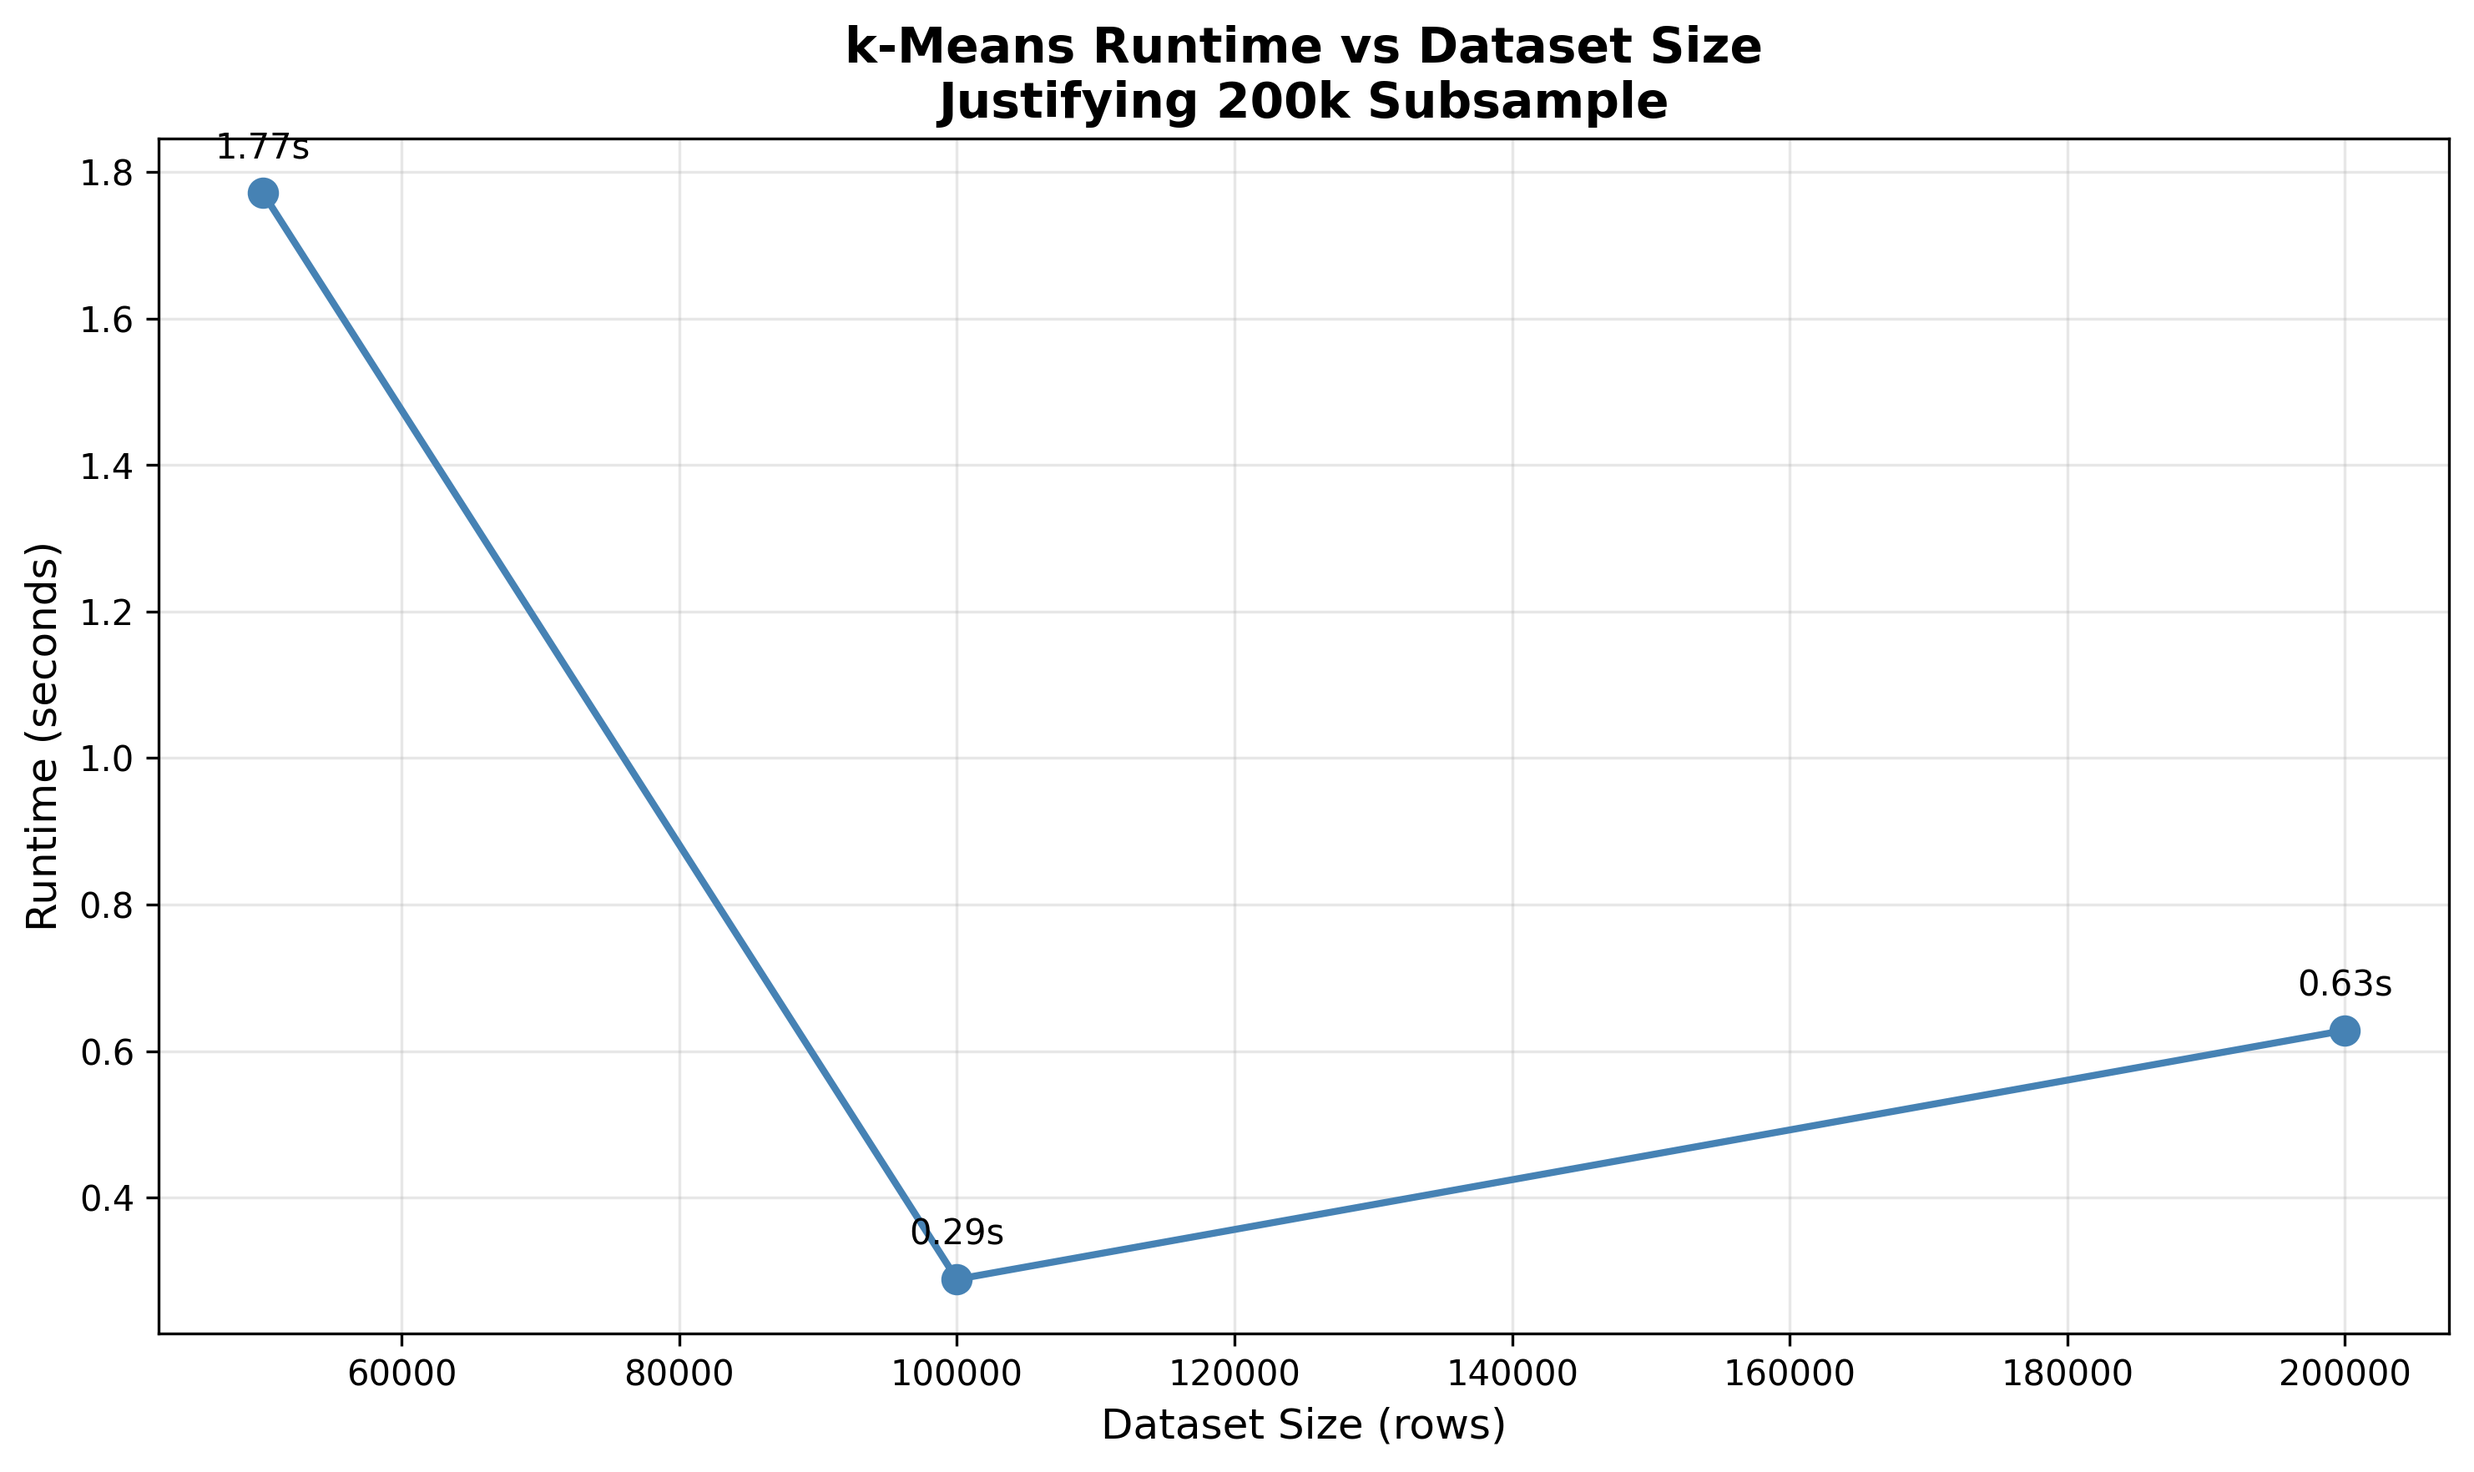
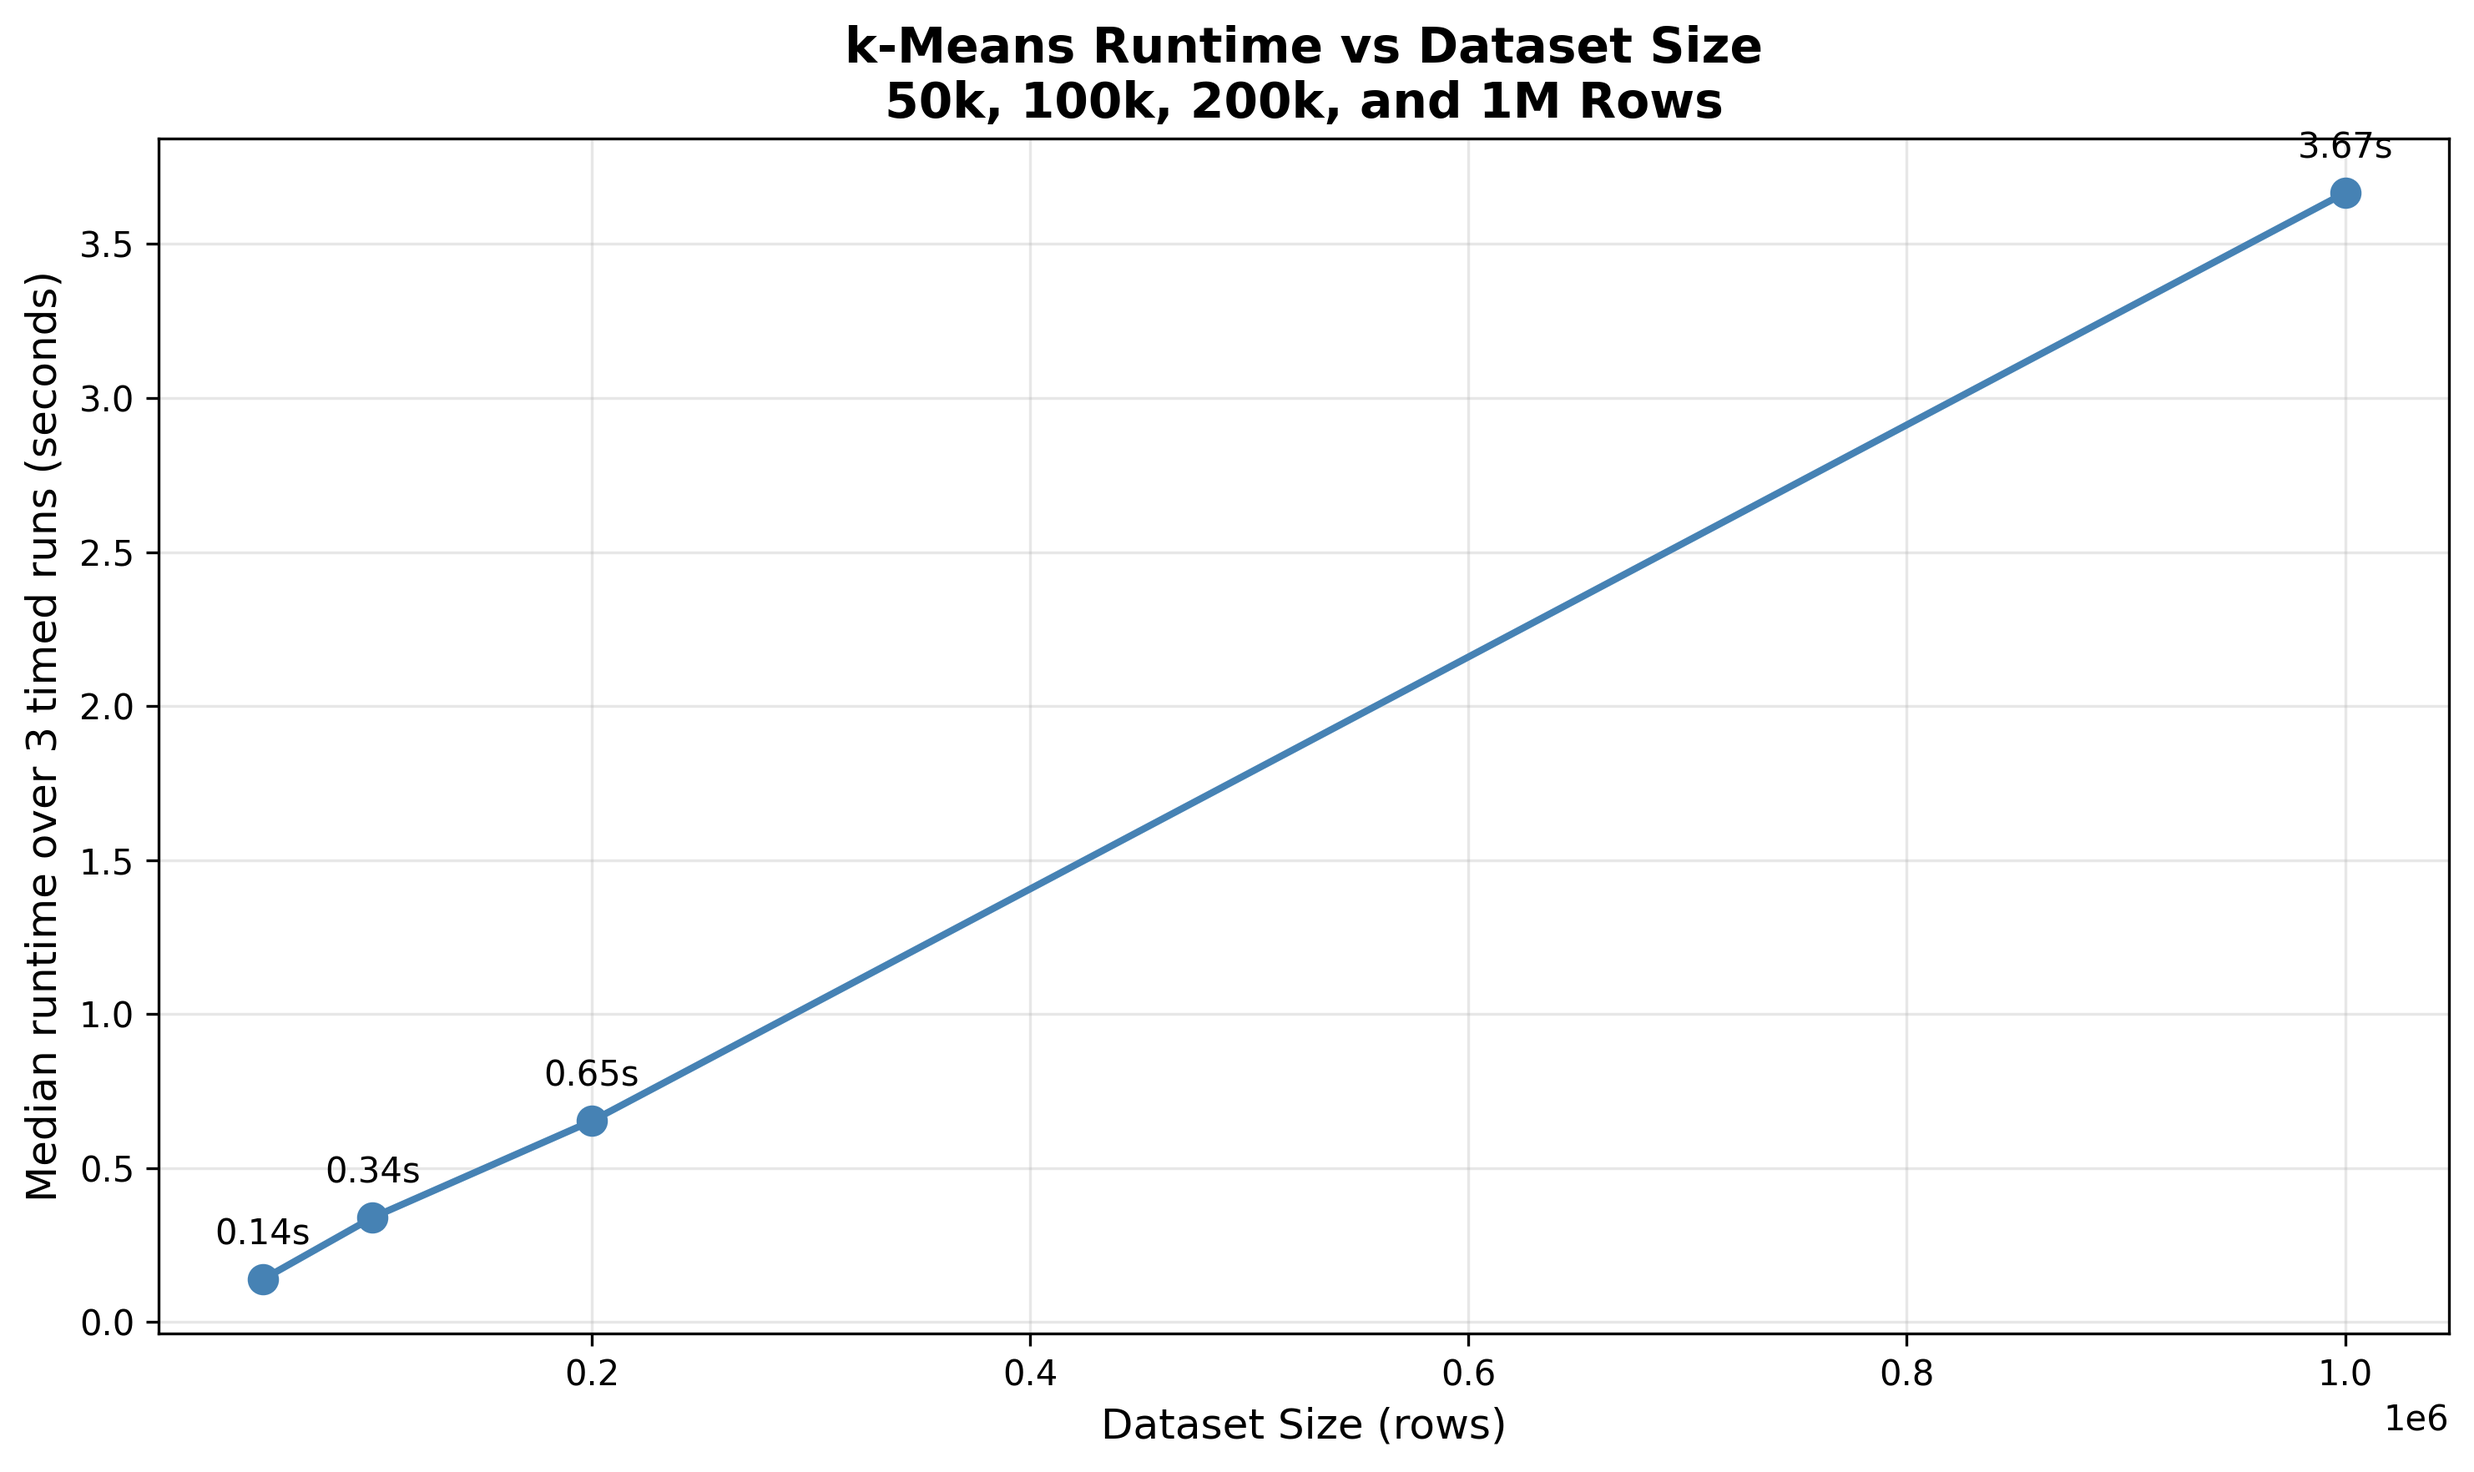
fixed the justification test, and updated the justification graph

diff --git a/src/k-means.py b/src/k-means.py
@@ -12,6 +12,7 @@ Usage examples:
 
 import argparse
 from pathlib import Path
+from statistics import median
 from time import perf_counter
 
 import matplotlib.pyplot as plt
@@ -159,6 +160,29 @@ def prepare_numeric_features(df: pd.DataFrame) -> tuple[pd.DataFrame, pd.DataFra
 	return df.loc[valid_mask].copy(), X.loc[valid_mask]
 
 
+def benchmark_kmeans_runtime(X_subset: pd.DataFrame, repeats: int = 3) -> tuple[float, list[float]]:
+	"""
+	Measure k-Means runtime on a fixed feature subset.
+
+	Runs one untimed warm-up pass to avoid counting one-time sklearn/BLAS startup
+	overhead, then reports the median across repeated timed runs.
+	"""
+	scaler = StandardScaler()
+	X_scaled = scaler.fit_transform(X_subset)
+	KMeans(n_clusters=2, n_init=10, random_state=42).fit(X_scaled)
+
+	runs = []
+	for _ in range(repeats):
+		start = perf_counter()
+		scaler = StandardScaler()
+		X_scaled = scaler.fit_transform(X_subset)
+		model = KMeans(n_clusters=2, n_init=10, random_state=42)
+		model.fit(X_scaled)
+		runs.append(perf_counter() - start)
+
+	return median(runs), runs
+
+
 def run_single_clustering(args: argparse.Namespace, df: pd.DataFrame) -> None:
 	df, X = prepare_numeric_features(df)
 
@@ -254,7 +278,7 @@ def justify_subsampling(
 	output_path: Path = Path("Analysis_and_Findings/subsample_justification.png"),
 ) -> None:
 	"""
-	Benchmark k-Means on 50k/100k/200k rows to justify use of subsampled dataset.
+	Benchmark k-Means on 50k/100k/200k/1M rows to justify use of subsampled dataset.
 	Plots runtime vs dataset size and saves to Analysis_and_Findings/subsample_justification.png
 	"""
 	input_path = Path(input_path)
@@ -263,7 +287,7 @@ def justify_subsampling(
 		raise FileNotFoundError(f"Input file not found: {input_path}")
 	
 	# Load only what we need for the largest benchmark
-	benchmark_sizes = [50_000, 100_000, 200_000]
+	benchmark_sizes = [50_000, 100_000, 200_000, 1_000_000]
 	max_size = max(benchmark_sizes)
 	
 	print(f"Loading {max_size:,} rows for benchmarking...")
@@ -283,34 +307,32 @@ def justify_subsampling(
 		raise ValueError(f"No benchmark sizes <= available rows ({available_rows:,})")
 	
 	print(f"\nBenchmarking k-Means on {len(usable_sizes)} dataset sizes...")
+	print(
+		f"Using contiguous prefixes from {input_path} after numeric validation: "
+		f"rows 1..N of the cleaned feature matrix."
+	)
 	runtimes = []
+	raw_timings = {}
 	
 	for size in usable_sizes:
 		X_subset = X.iloc[:size]
 		
-		print(f"\n  Size {size:,} rows...")
-		start = perf_counter()
-		
-		# Standardize
-		scaler = StandardScaler()
-		X_scaled = scaler.fit_transform(X_subset)
-		
-		# Fit k-Means
-		model = KMeans(n_clusters=2, n_init=10, random_state=42)
-		model.fit(X_scaled)
-		
-		elapsed = perf_counter() - start
+		print(f"\n  Size {size:,} rows (using validated rows 1..{size:,})...")
+		elapsed, runs = benchmark_kmeans_runtime(X_subset)
 		runtimes.append(elapsed)
-		print(f"    Runtime: {elapsed:.3f} seconds")
+		raw_timings[size] = runs
+		formatted_runs = ", ".join(f"{run:.3f}s" for run in runs)
+		print(f"    Timed runs: {formatted_runs}")
+		print(f"    Median runtime: {elapsed:.3f} seconds")
 	
 	# Plot and save
 	output_path.parent.mkdir(parents=True, exist_ok=True)
 	
 	plt.figure(figsize=(10, 6))
 	plt.plot(usable_sizes, runtimes, marker="o", linewidth=2, markersize=8, color="steelblue")
-	plt.title("k-Means Runtime vs Dataset Size\nJustifying 200k Subsample", fontsize=14, fontweight="bold")
+	plt.title("k-Means Runtime vs Dataset Size\n50k, 100k, 200k, and 1M Rows", fontsize=14, fontweight="bold")
 	plt.xlabel("Dataset Size (rows)", fontsize=12)
-	plt.ylabel("Runtime (seconds)", fontsize=12)
+	plt.ylabel("Median runtime over 3 timed runs (seconds)", fontsize=12)
 	plt.grid(True, alpha=0.3)
 	
 	# Add value labels on points
@@ -325,7 +347,8 @@ def justify_subsampling(
 	print(f"\n✓ Saved benchmark plot to: {output_path}")
 	print("\nSummary:")
 	for size, runtime in zip(usable_sizes, runtimes):
-		print(f"  {size:,} rows: {runtime:.3f}s")
+		formatted_runs = ", ".join(f"{run:.3f}s" for run in raw_timings[size])
+		print(f"  {size:,} rows: median {runtime:.3f}s from [{formatted_runs}]")
 
 
 def run_runtime_benchmark(args: argparse.Namespace, df: pd.DataFrame) -> None:

diff --git a/README.md b/README.md
@@ -130,11 +130,16 @@ Writes:
 #### Create custom-size subsample
 `python src/k-means.py --create-subsample --subsample-size 50000 --subsample-output data/processed/higgs_50k.csv`
 
-#### Run fixed subsampling justification benchmark (50k/100k/200k)
+#### Run fixed subsampling justification benchmark (50k/100k/200k/1M)
 `python src/k-means.py --justify-subsampling`
 
 Writes:
 - `Analysis_and_Findings/subsample_justification.png`
+
+The justification plot:
+- benchmarks `50k`, `100k`, `200k`, and `1,000,000` rows
+- uses the first `N` validated rows from `data/processed/higgs_cleaned.csv` for each point
+- runs one untimed warm-up pass, then records the median of 3 timed runs to reduce one-time startup noise
 
 #### Run benchmark and subsample in one command
 `python src/k-means.py --justify-subsampling --create-subsample --subsample-size 200000 --subsample-output data/processed/higgs_200k.csv`
